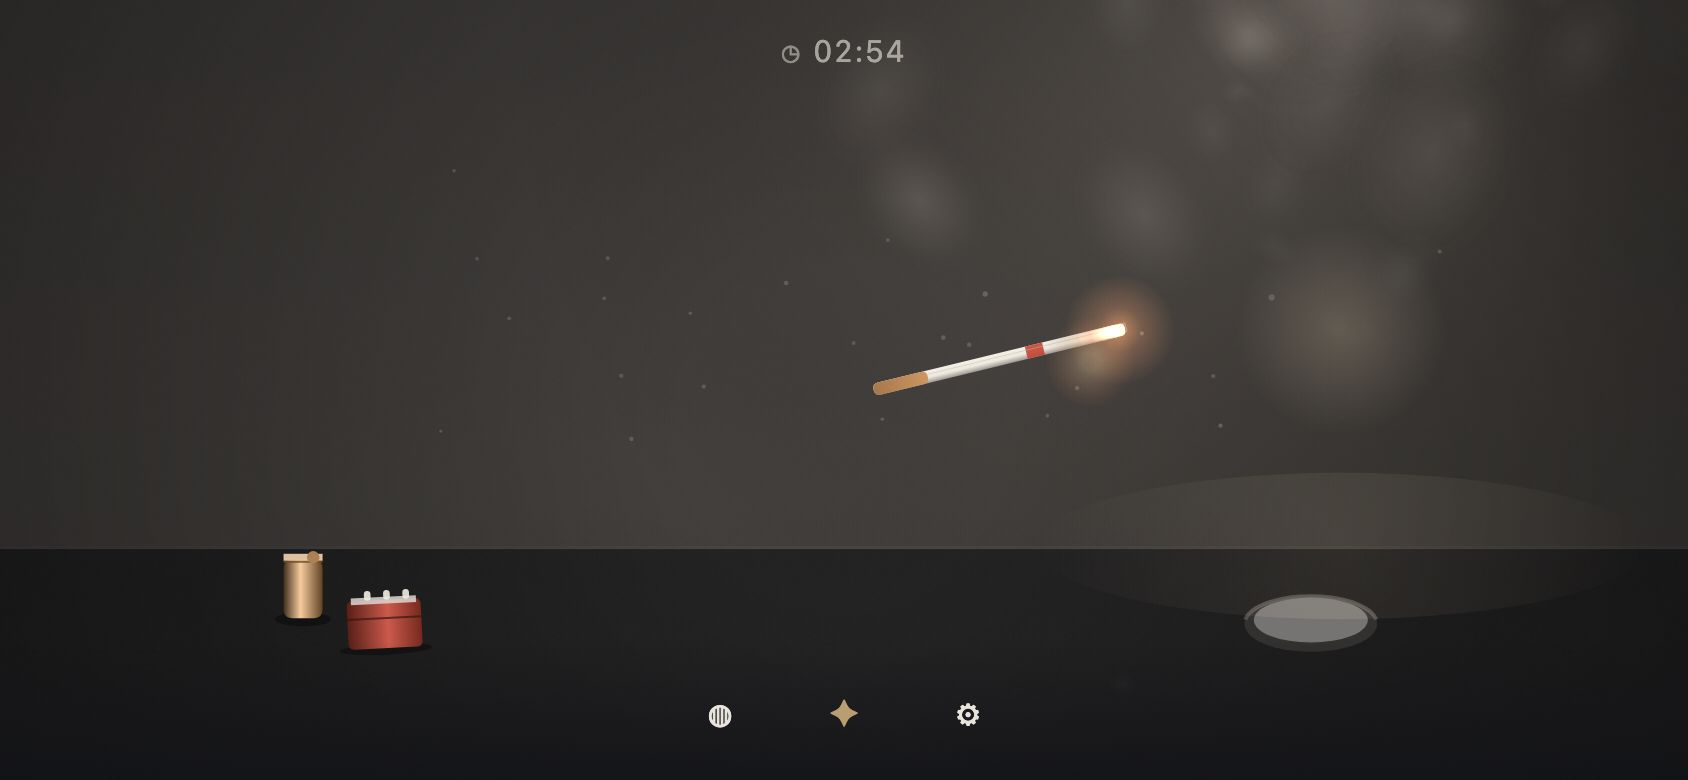
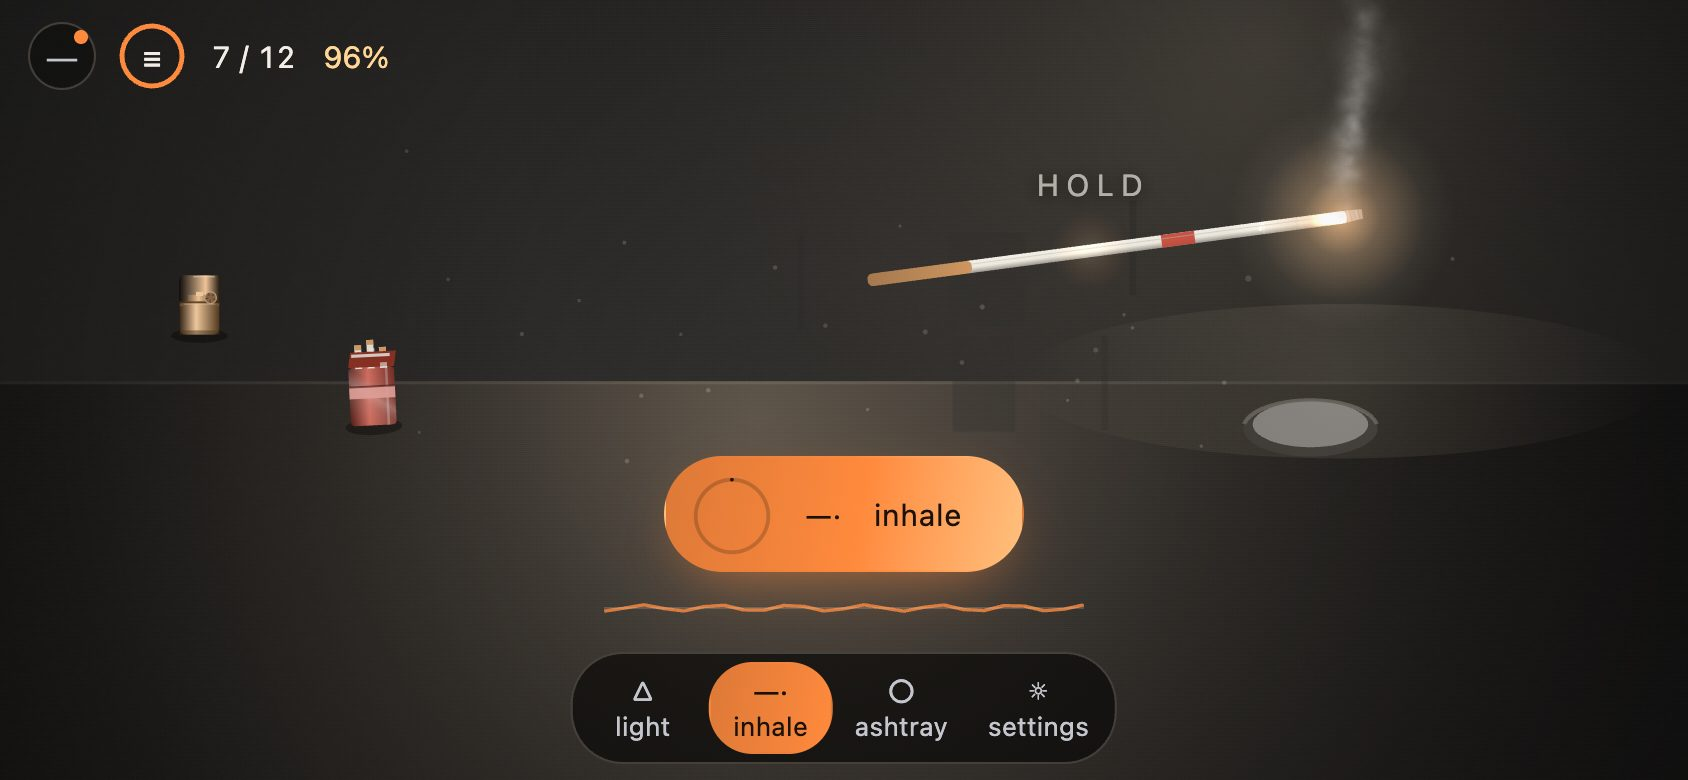
docs(readme): 四张演示图重拍，重拍的手顺留在仓里
README 顶部那四张是 09-30 的界面：三个没有字的导轨点、没有环、没有那颗胶囊、烟是一团雾；
而配文写着「column takes shape」「a word per row」，图里两样都没有。截图不能被判据，
所以这一轮不加更严的测试，而是把「从构建产物重拍这四张」做成仓里的一条命令：
tests/smoke/readme-shots.mjs 演一次真呼吸（拿起、点着、从胶囊上吸七口，每一口按那一行
自己的秒数等，不按墙钟），拍下四张，并把每帧读到的机器值打出来。

它的第一版是坏的，坏法值得记：lit 初始化成 'not attempted'，而点火的循环判的是
lit === '' ⇒ 那个循环一次都没跑，脚本对着一张没点着的桌子「吸」了七口，每口等一个
永不到来的秒数（25 s × 7）。修好之后它多了一条「四次没点着就点名失败」——一个工具
拍出好看的空画面，比没有这个工具更糟。

实测：四张 ring=77 / 73 / 78（力度读数）、force=true、导轨四个入口带字；六步门禁
ALL_GREEN（npm test 132 files / 1014 cases，50 s）；真机 96/96。
文档判据一起跟上：DOC_CITATIONS SPEC 230 mentions / 118 files、README 3 / 2，
DOC_SCRIPTS 9 mentions / 10 scripts。

diff --git a/README.md b/README.md
@@ -6,12 +6,17 @@ A wordless, offline-first smoke-break game. A table, a lighter, a tray, a rod of
 never tobacco. Tap it, light it, draw, and watch the smoke take the shape that particular cigarette
 makes. Nothing to read, nothing to sign up for, nothing leaves the device.
 
-| Phone, 393×852                                                                   | Desktop, 1280×800                                                  |
-| -------------------------------------------------------------------------------- | ------------------------------------------------------------------ |
-| ![Smoke on a phone](docs/images/phone-smoke.jpg)                                 | ![The scene on a desktop](docs/images/desktop-smoke.jpg)           |
-| Three draws in: the column takes shape, and the cherry lights the air around it. | The same break on a wide stage, where the props spread apart.      |
-| ![Landscape phone](docs/images/phone-landscape-smoke.jpg)                        | ![Settings](docs/images/desktop-settings.jpg)                      |
-| 844×390: the props spread apart instead of crowding everything into a column.    | A word per row, and a control beside it. Nothing here is required. |
+| Phone, 393×852                                                                                                                                                           | Desktop, 1280×800                                                                                                                                        |
+| ------------------------------------------------------------------------------------------------------------------------------------------------------------------------ | -------------------------------------------------------------------------------------------------------------------------------------------------------- |
+| ![Smoke on a phone](docs/images/phone-smoke.jpg)                                                                                                                         | ![The scene on a desktop](docs/images/desktop-smoke.jpg)                                                                                                 |
+| Mid-break: the ring is reading the strength of the breath that just left, the row counts the draws and what is left of the rod, and the plume is a line rather than fog. | The same break on a wide stage, where the props spread apart, the row stands as five figures at once, and the desk column holds the rest of the product. |
+| ![Landscape phone](docs/images/phone-landscape-smoke.jpg)                                                                                                                | ![Settings](docs/images/desktop-settings.jpg)                                                                                                            |
+| 844×390: the props spread apart instead of crowding everything into a column, and the table lifts clear of the chrome.                                                   | A word per row, and a control beside it. Nothing here is required.                                                                                       |
+
+All four are regenerated from the built artefact by `node tests/smoke/readme-shots.mjs <url>`: it
+performs a real break — picks the rod up, lights it, takes seven breaths off the pill — and
+photographs what the shipped chrome prints while it does. When the interface changes, the pictures
+are one command behind it rather than a stale claim about it.
 
 **Play it now: <https://wenzo001.github.io/puffly/>** — the same build `main` publishes on every
 push, installable to a phone home screen and usable offline afterwards.
@@ -349,6 +354,7 @@ tapping. Nothing anywhere awards a streak, because a streak is a punishment with
 | `npm run typecheck`                                     | Every workspace, including the Vue shell                                                                                                                                                                                                                                                                   |
 | `npm run build` then `bash tests/smoke/served-build.sh` | The built app is servable from its subpath: entry script, manifest and service worker all answer                                                                                                                                                                                                           |
 | `node tests/smoke/touch-device.mjs <url>`               | **96 checks** in a real browser: a whole break performed with taps on an emulated phone and with a mouse in a desktop window, the chrome read against the state it claims, and a breath with light and dark inside it                                                                                      |
+| `node tests/smoke/readme-shots.mjs <url>`               | Not a check: it performs a break in the built artefact and rewrites the four pictures at the top of this file, then prints the machine values each frame was read at. What a frame should look like stays a human call                                                                                     |
 
 The six steps above are run as one gate before a commit lands, in this order — format, lint with
 `--max-warnings 0`, typecheck, `npm test`, the subpath build (`PUBLIC_BASE=/puffly/`), the served
